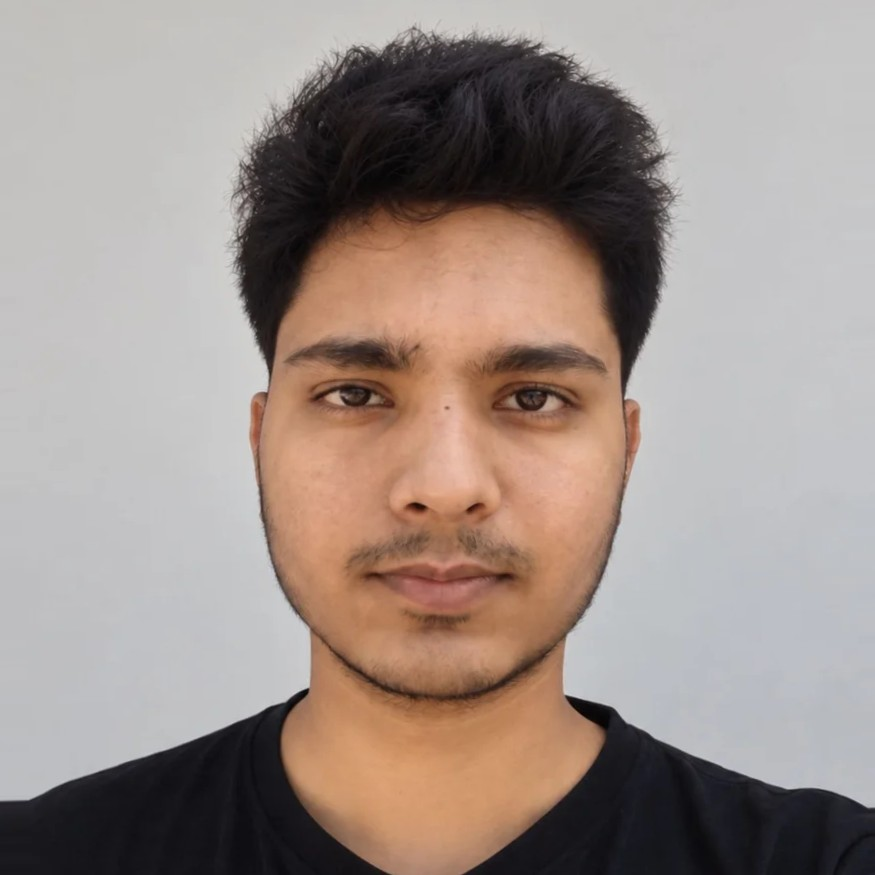
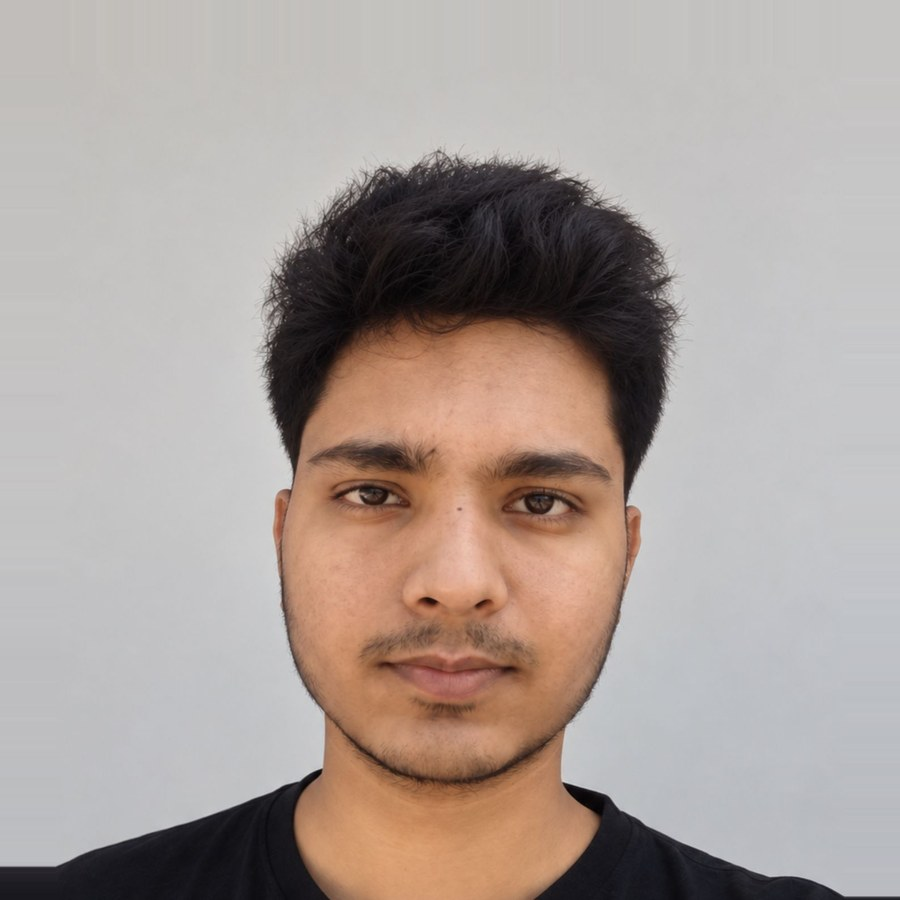
added Chatty project, update skills and resume

diff --git a/src/data/projects.js b/src/data/projects.js
@@ -1,4 +1,5 @@
 import project from "../assets/project.jpg";
+import chatty from "../assets/chat-app.jpg";
 export const projects = [
   {
     title: "AI Interview Prep & Resume Builder",
@@ -8,5 +9,14 @@ export const projects = [
     live: "https://gen-ai-resume-project-in-mern.vercel.app",
     github: "https://github.com/himanshupandey777/gen-ai-resume-project-in-mern",
      image: project,  
+  },
+    {
+    title: "Chatty: Real-time Chat App",
+    description:
+      "A real-time chat app with public rooms and passcode-protected private rooms. Messages appear live with typing indicators and online users, expire after 24 hours, and can be deleted by senders, room owners, or an admin. Built with Socket.io, JWT authentication, and a phone-friendly layout.",
+    tech: ["React", "Node.js", "Express", "MongoDB", "Socket.io", "JWT"],
+    live: "https://chat-in-chatty-app.vercel.app/",
+    github: "https://github.com/himanshupandey777/Chat-app",
+    image: chatty,
   },
 ];

diff --git a/src/data/skills.js b/src/data/skills.js
@@ -5,8 +5,8 @@ export const skills = [
   },
   {
     group: "Backend",
-    items: ["Node.js", "Express.js", "REST APIs", "JWT Authentication"],
+    items: ["Node.js", "Express.js", "REST APIs", "JWT Authentication", "Socket.io"],
   },
   { group: "Database", items: ["MongoDB", "Mongoose", "MySQL"] },
-  { group: "Tools", items: ["Git", "GitHub", "Postman", "Gemini API"] },
+  { group: "Tools", items: ["Git", "GitHub", "Postman", "Gemini API", "Vercel", "Render"] },
 ];
